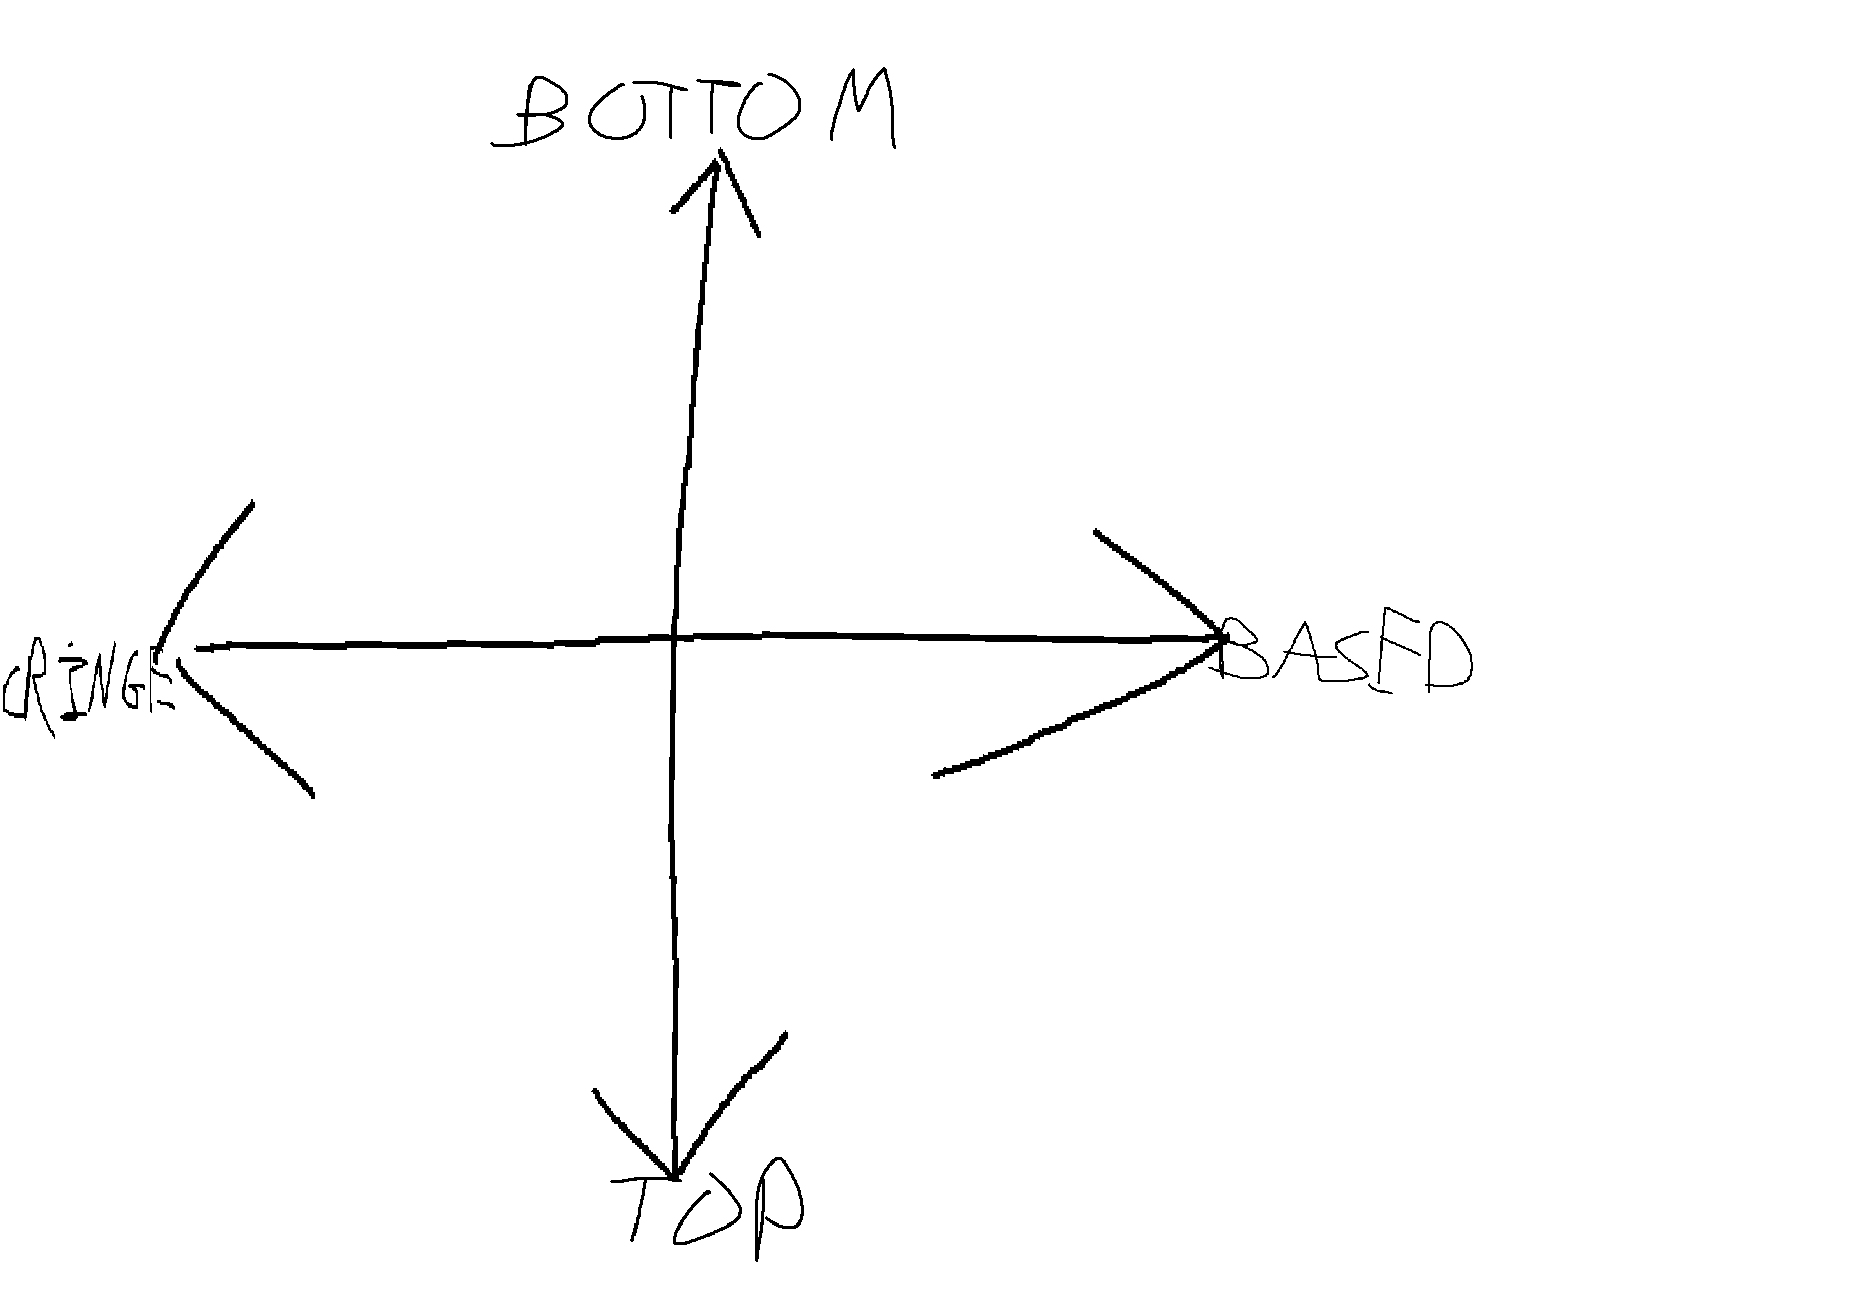
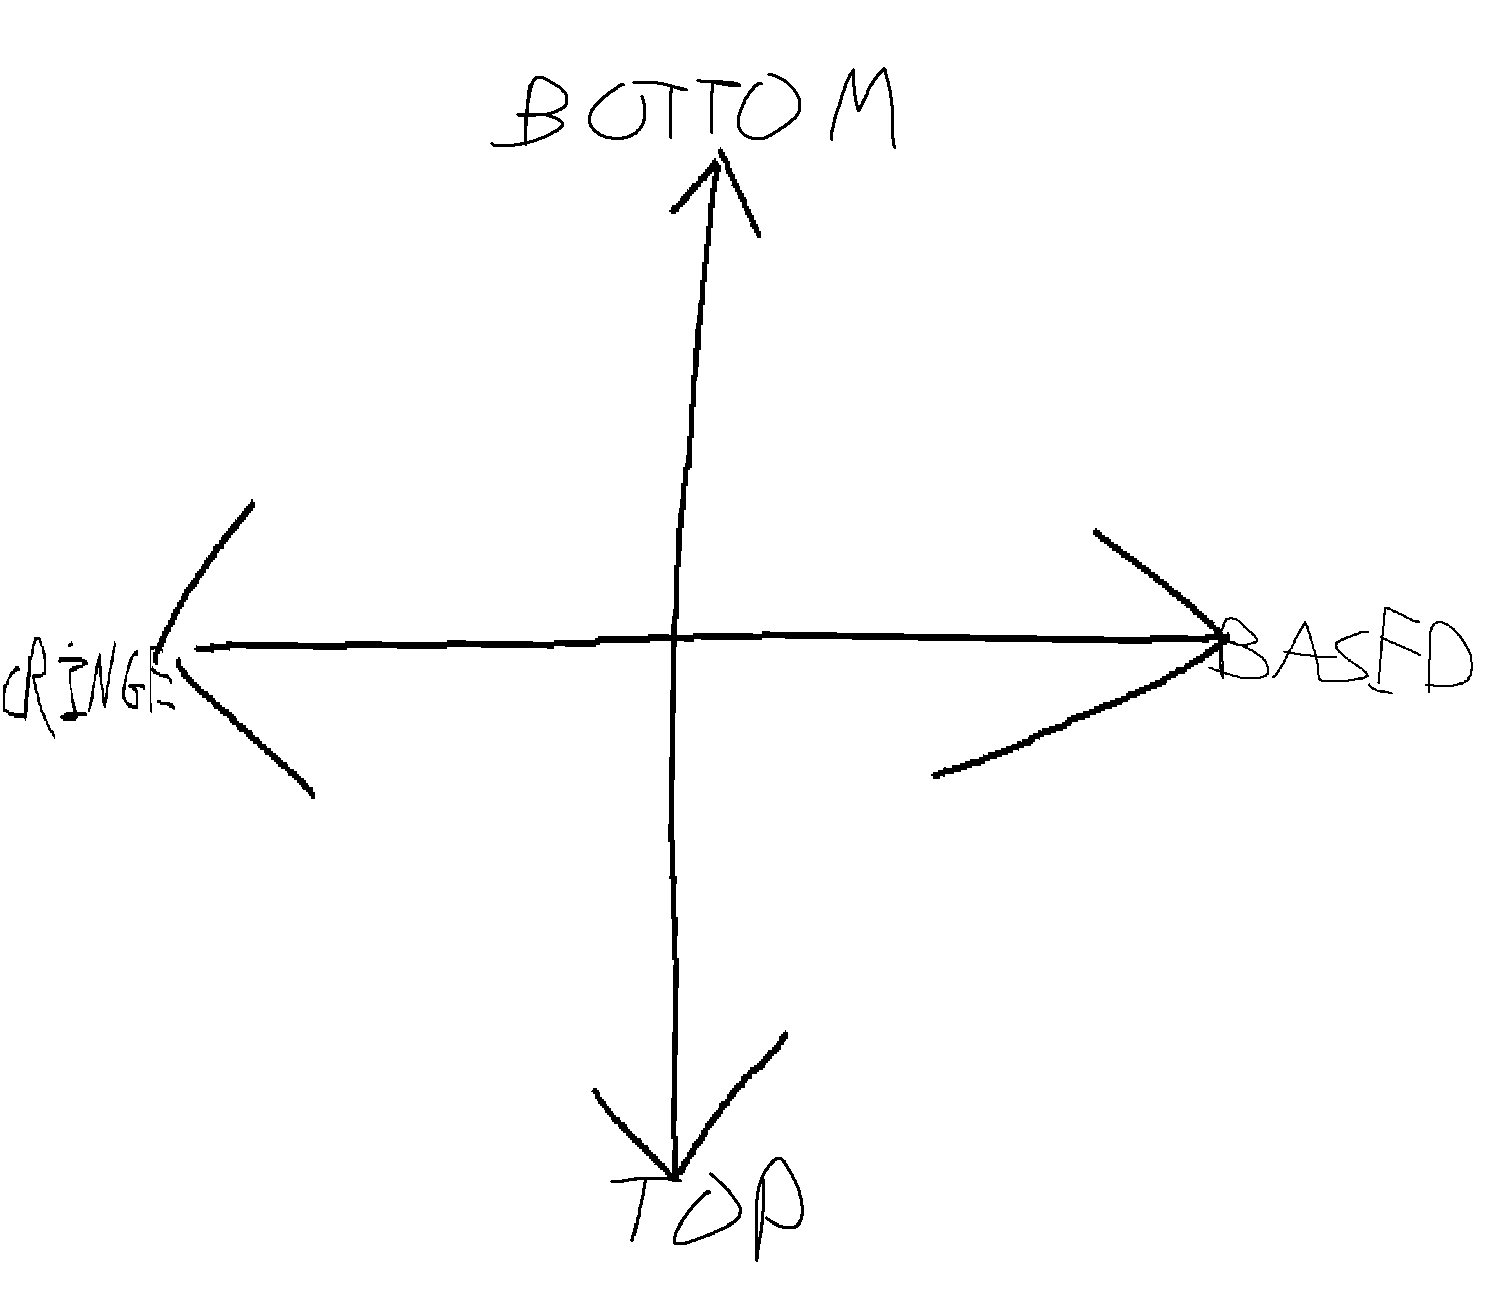
trying new image for compass

diff --git a/results.html b/results.html
@@ -46,11 +46,11 @@
             var background = new Image();
             background.onload = function() {
                 var c = document.createElement("canvas");
-                c.width = 1850;
+                c.width = 1500;
                 c.height = 1600;
                 var ctx = c.getContext("2d");
                 ctx.fillStyle = "#EEEEEE"
-                ctx.fillRect(0, 0, 1850, 1600);
+                ctx.fillRect(0, 0, 1500, 1600);
                 ctx.drawImage(background, 0, 0);
     
                 var dot = c.getContext("2d");
@@ -76,7 +76,7 @@
 <!--                ctx.fillText("Prog / Con Axis (z): " + z_axis, 725, 1525) -->
                 ctx.textAlign="right"
                 ctx.font="60px Montserrat"
-                ctx.fillText("THE SEX COMPASS", 1820, 1560)
+                ctx.fillText("THE SEX COMPASS", 725, 1560)
     
                 document.getElementById("banner").src = c.toDataURL();
             }
